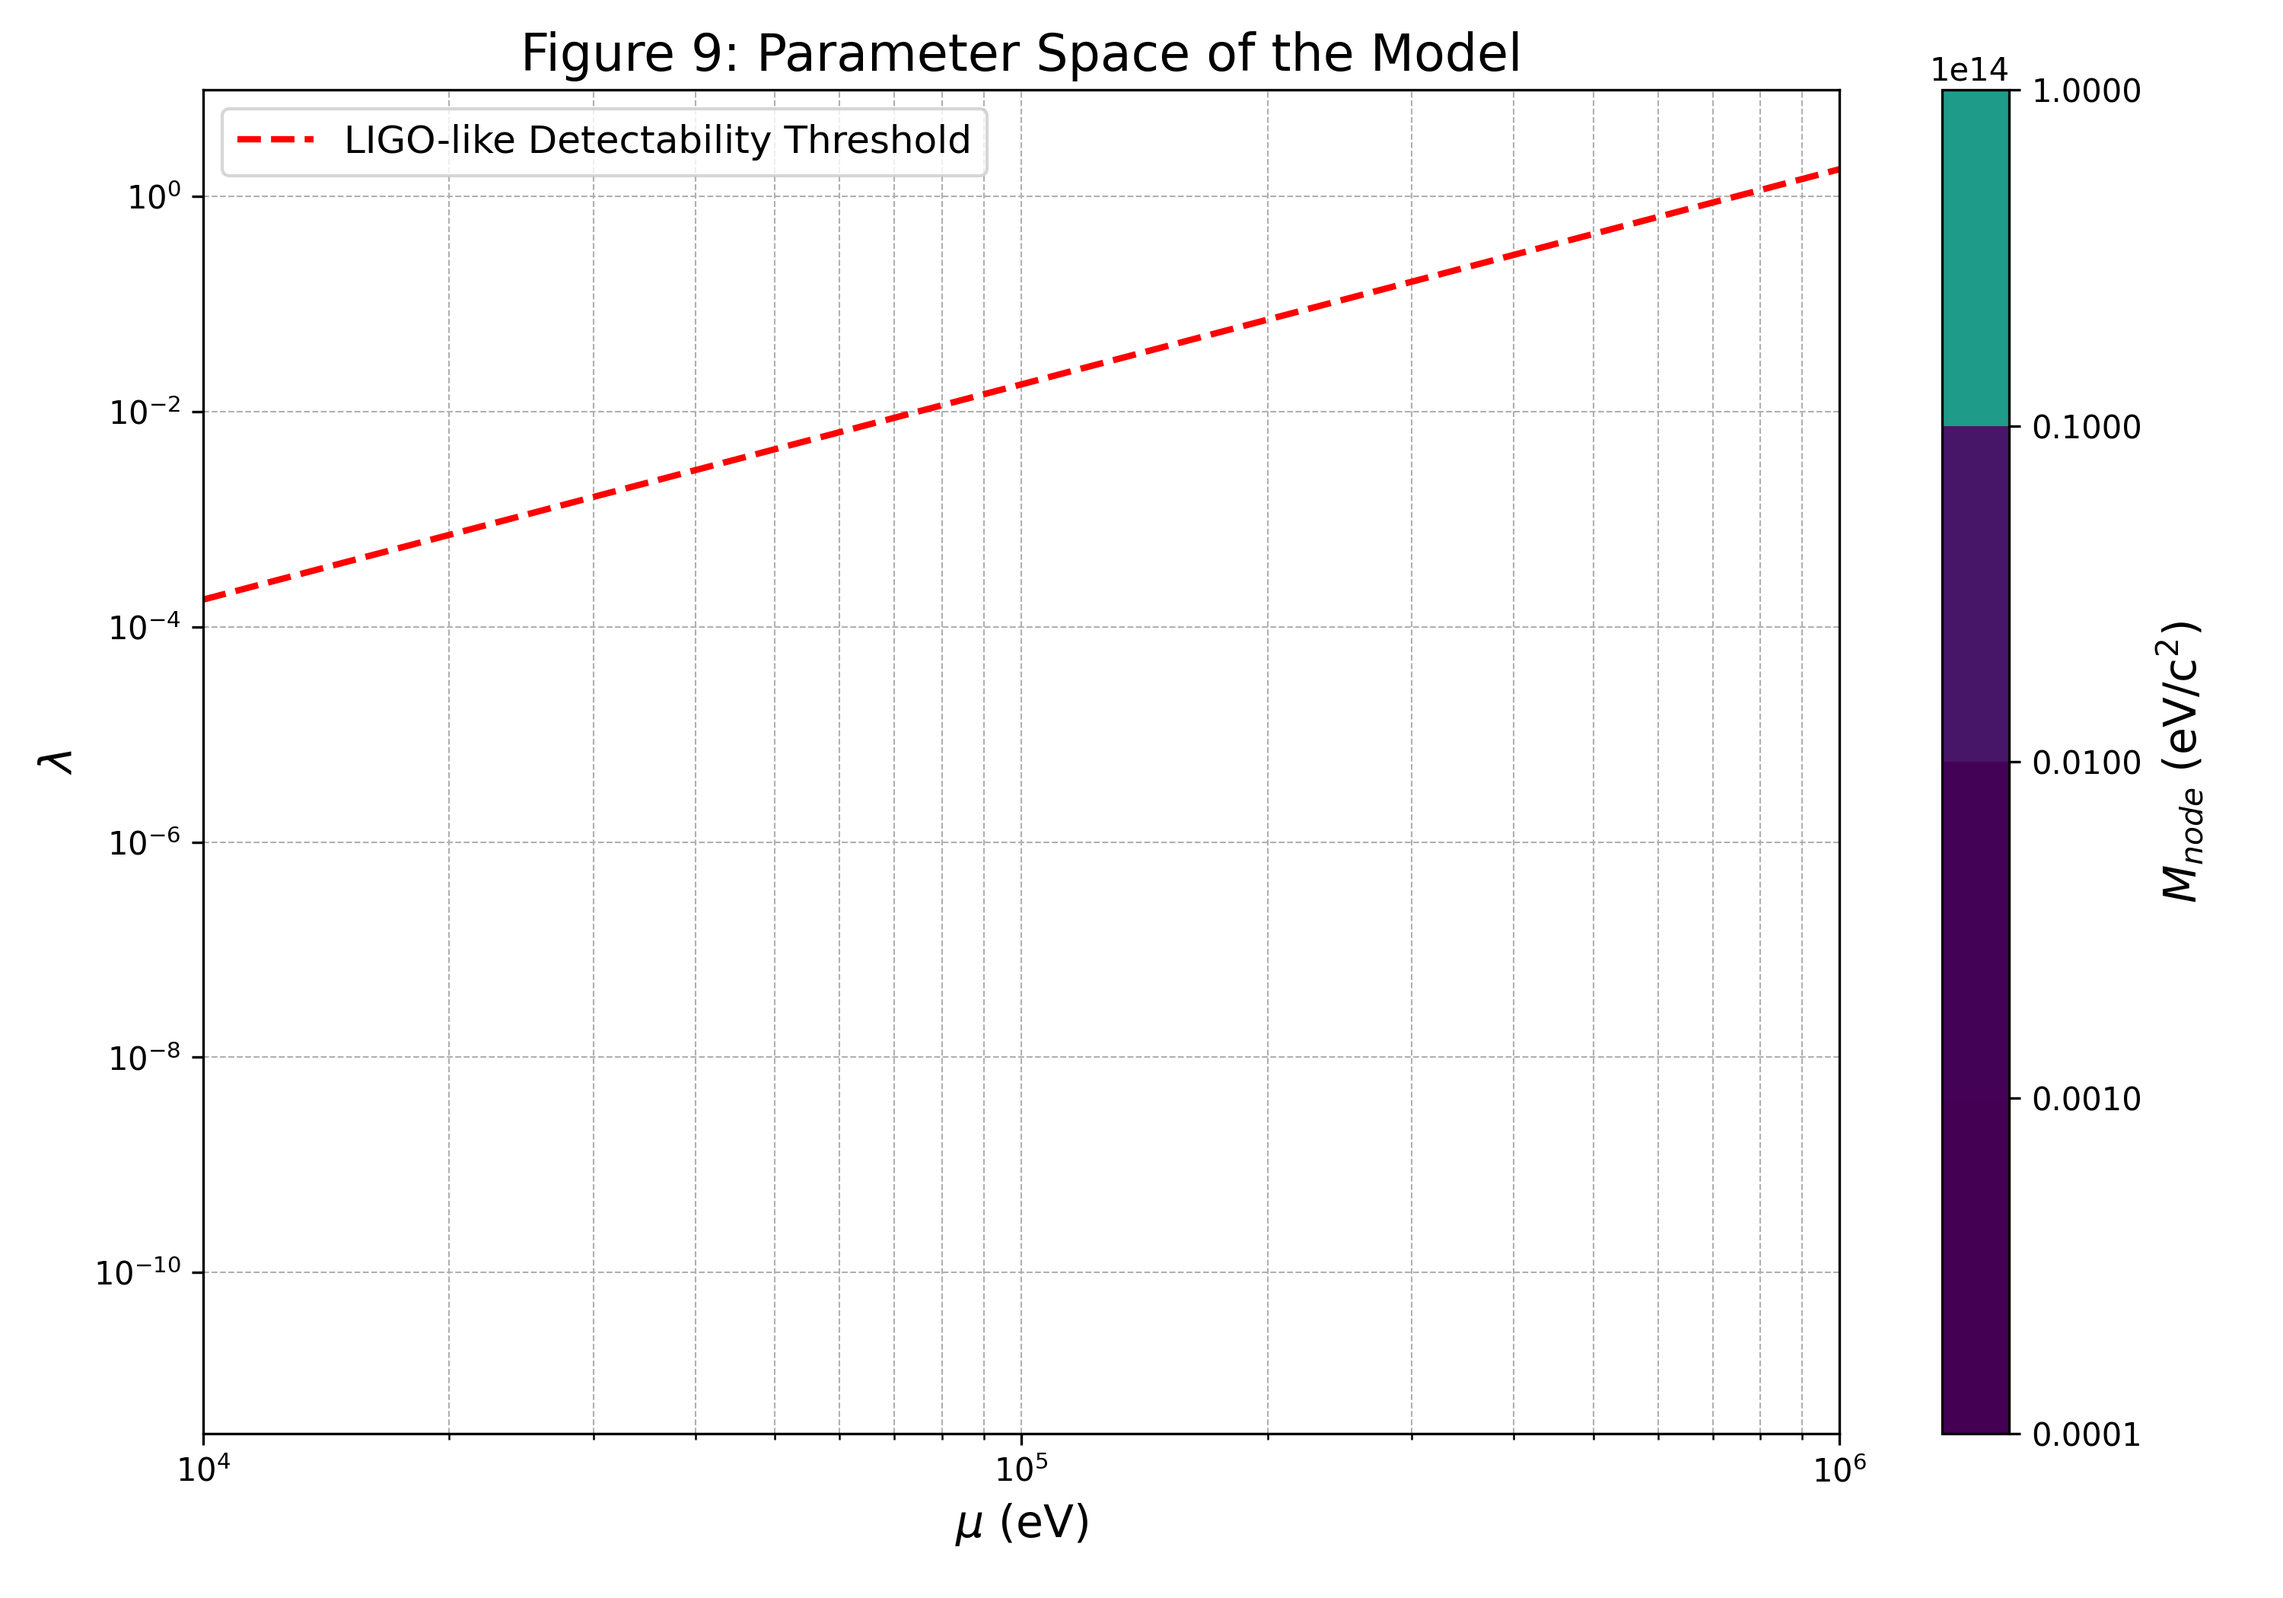
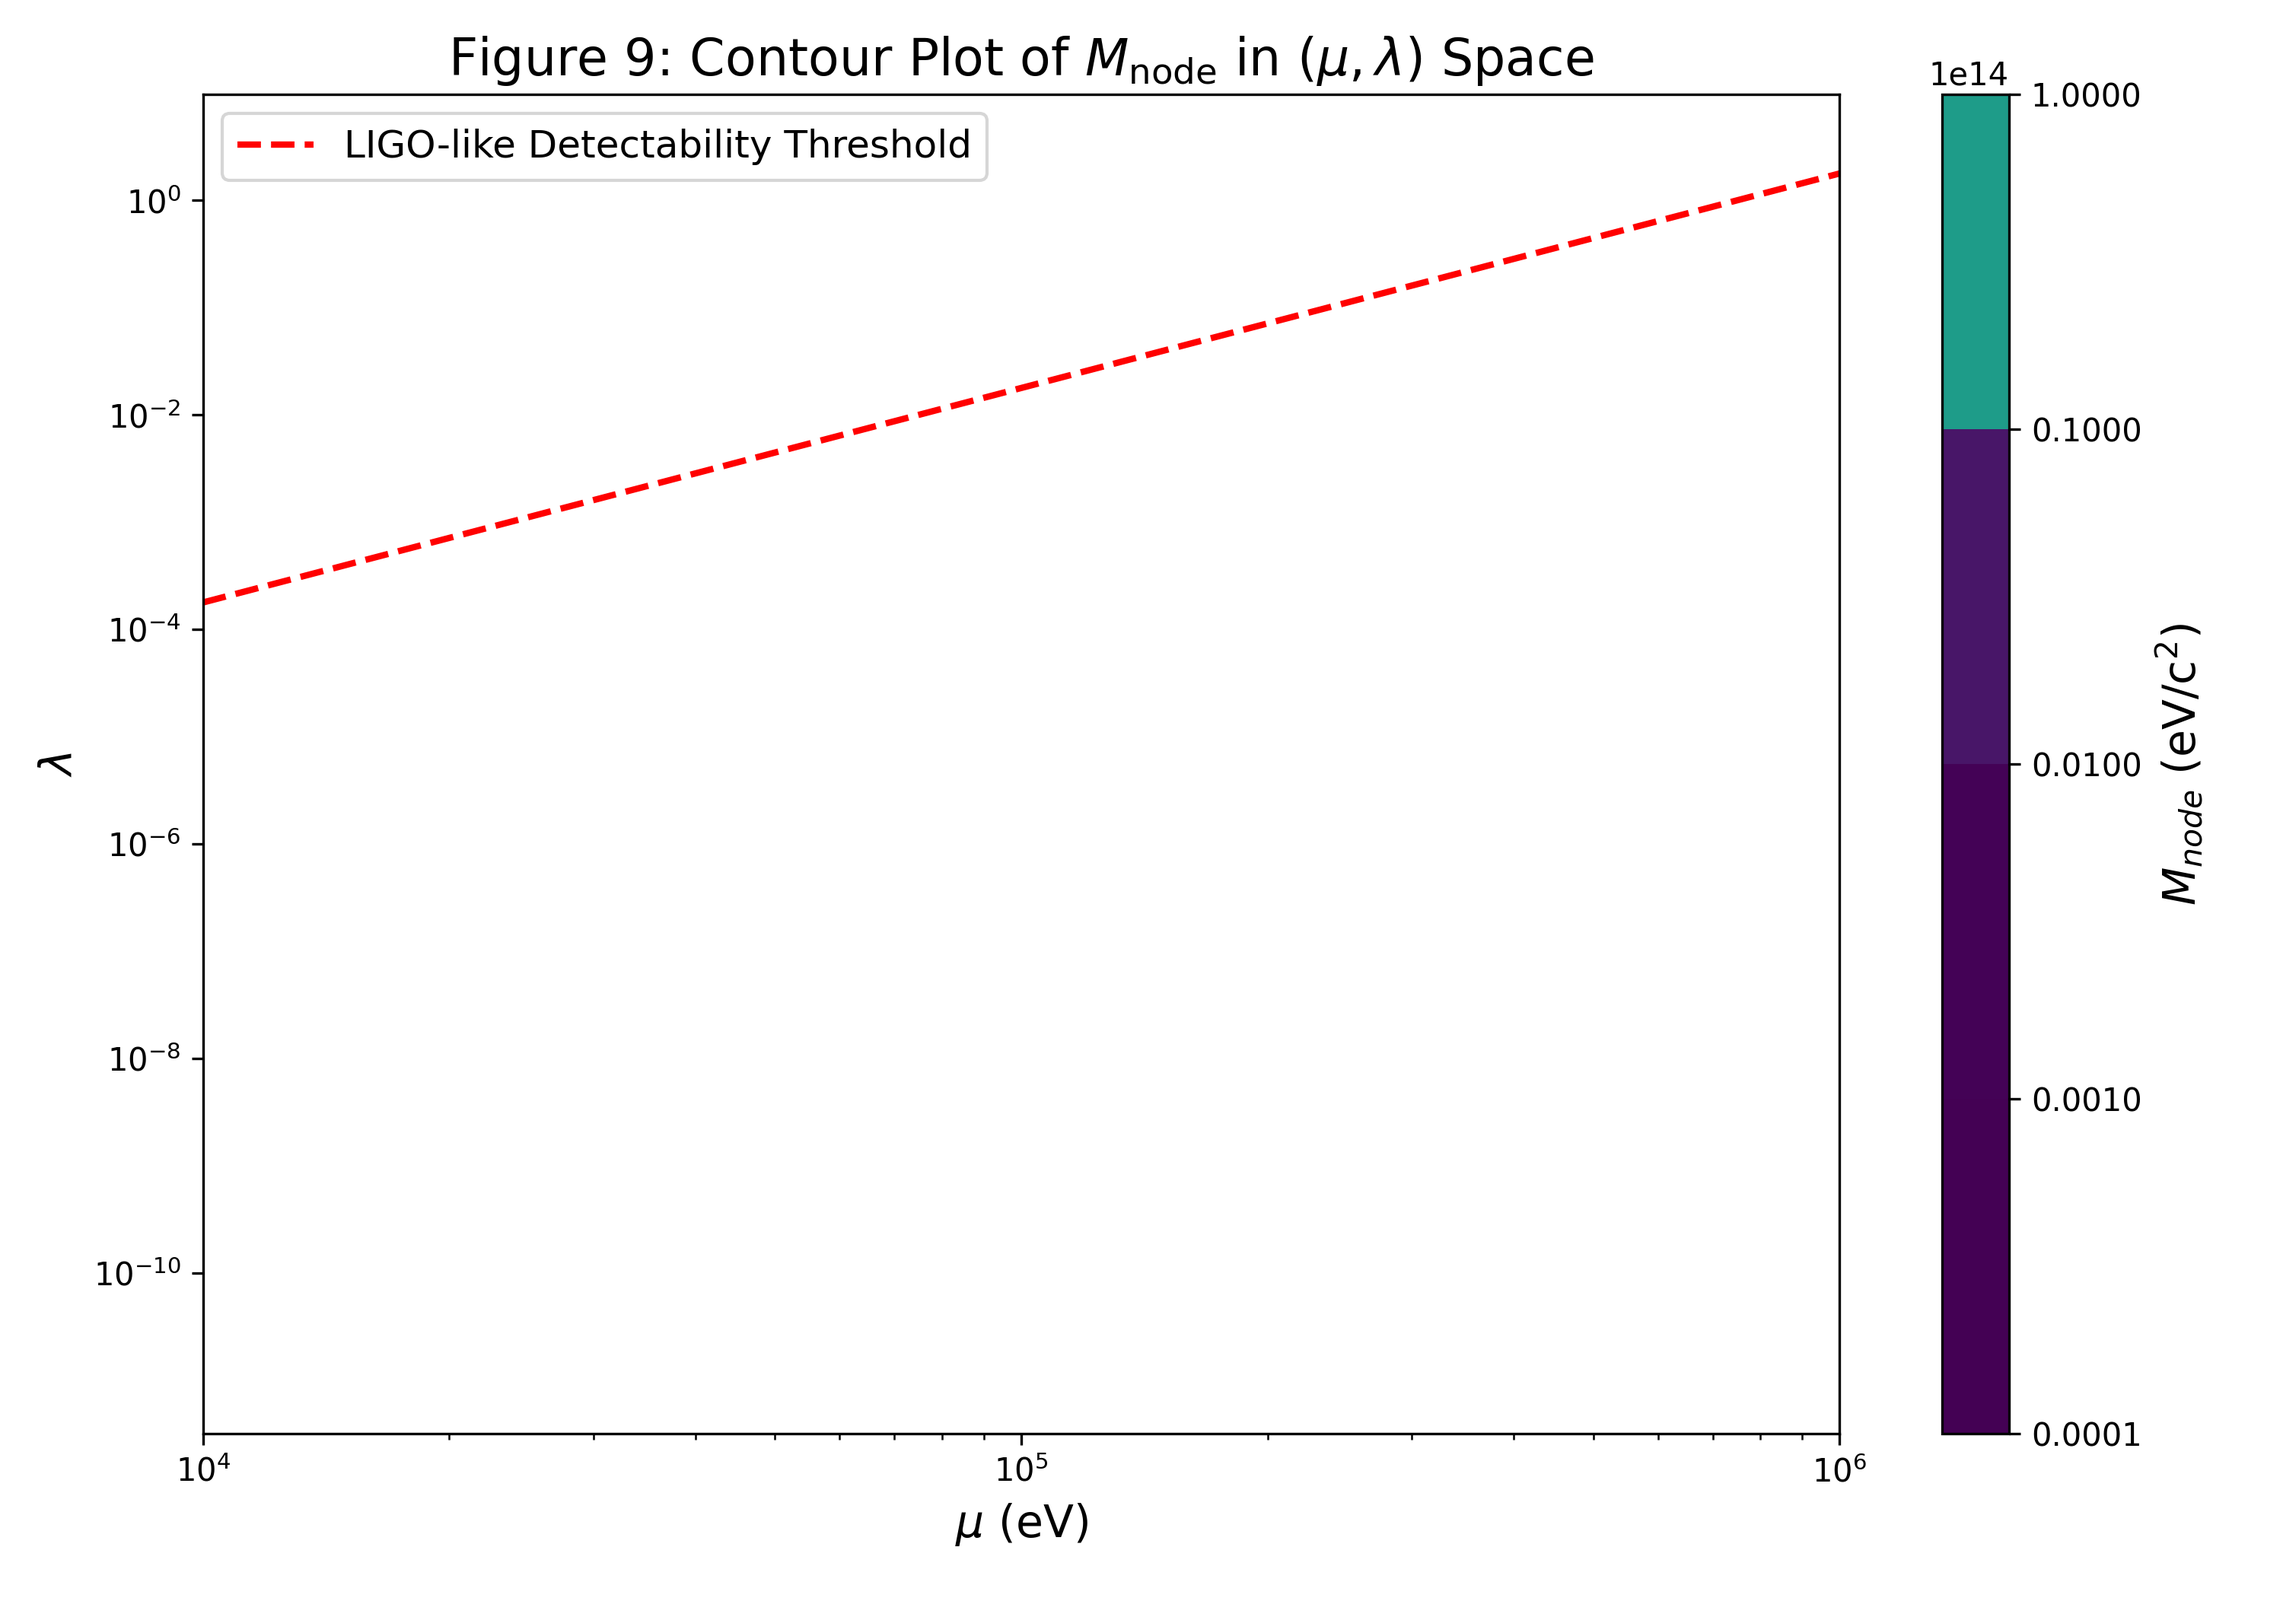
fix: Correct Figure 9 parameter range and style

diff --git a/generate_figure.py b/generate_figure.py
@@ -33,12 +33,11 @@ plt.xscale('log')
 plt.yscale('log')
 plt.xlabel(r'$\mu$ (eV)', fontsize=14)
 plt.ylabel(r'$\lambda$', fontsize=14)
-plt.title('Figure 9: Parameter Space of the Model', fontsize=16)
-plt.grid(True, which="both", ls="--", linewidth=0.5)
+plt.title(r'Figure 9: Contour Plot of $M_{\rm node}$ in $(\mu, \lambda)$ Space', fontsize=16)
 plt.legend(fontsize=12)
 plt.tight_layout()
 
 # Save the figure
 plt.savefig('figure_9.png', dpi=300)
 
-print("Figure 9 has been generated and saved as figure_9.png")
+print("Figure 9 has been regenerated and saved as figure_9.png")
